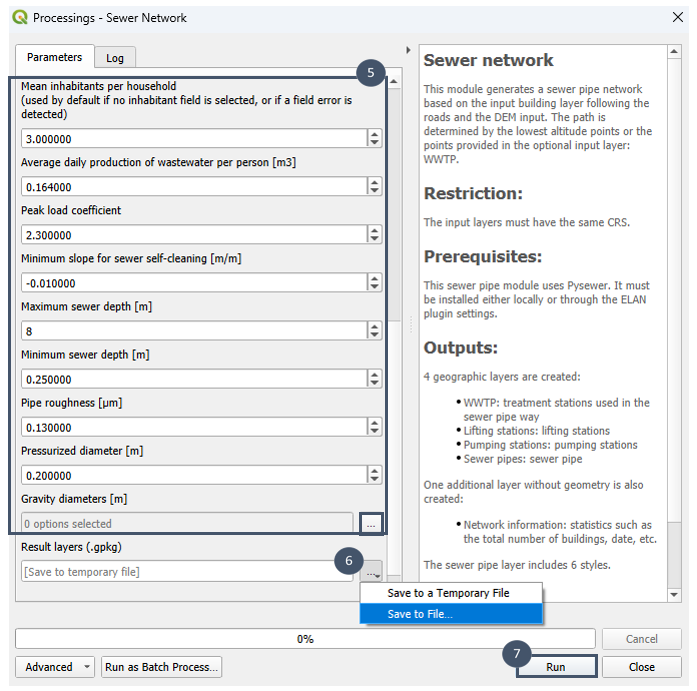
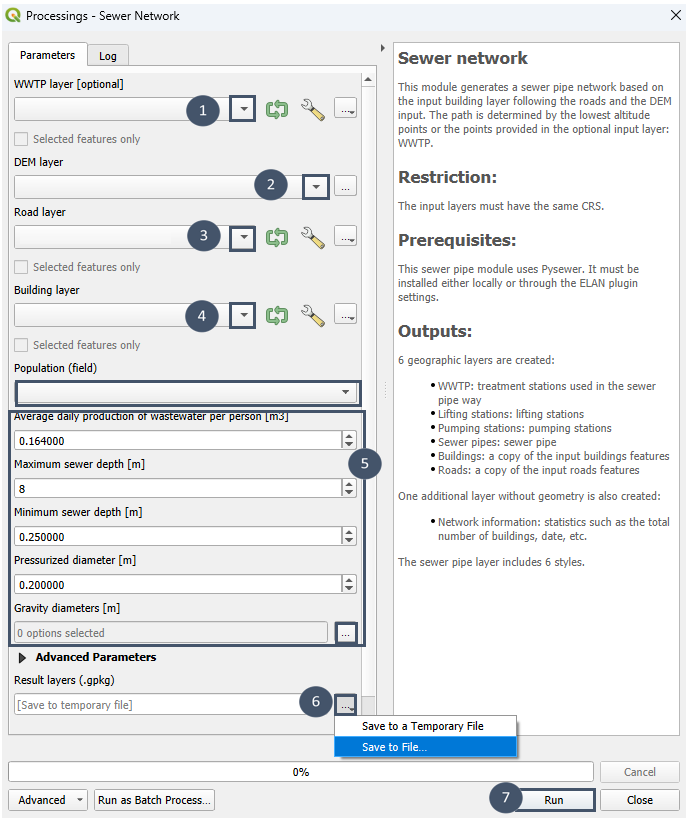
suite upgrade images and texts in preparation.rst and scenario_prb1.rst

Changed region(s): [[0.0, 0.0, 1.0, 1.0], [0.9767, 0.0, 1.0, 0.0304]]

diff --git a/docs/scenario_prb1.rst b/docs/scenario_prb1.rst
@@ -66,13 +66,10 @@ Utilisation du module
     Pour les exutoires, vous pouvez sélectionner au préalable celui ou ceux que vous souhaitez considérer parmi l'ensemble des possibilités envisagées puis cocher *Entités sélectionnées uniquement* dans le module.
     Cette option est également proposée pour les routes et les bâtiments à considérer.
 
-.. note::
-    Si vous avez eu recours au module ``Population`` pour préparer vos données géographiques, l'attribut à indiquer est *population*.
+.. image:: _static/entrees-reseau.png
+    :width: 688
 
-.. image:: _static/couches-reseau.png
-    :width: 680
-
-**3.** Faire coulisser l'ascenseur à l'aide de la souris (et non de la molette, cela risque de changer les valeurs des paramètres à votre insu) et **ajuster les différents paramètres** (encart 5) afin que le pré-dimensionnement du réseau soit le plus adapté à votre contexte : 
+**3.** **Ajuster les différents paramètres** (encart 5) afin que le pré-dimensionnement du réseau soit le plus adapté à votre contexte : 
 
 * ``volume moyen d'eaux usées produit par jour par personne`` : [m³].
 
@@ -99,9 +96,6 @@ Utilisation du module
     * ``rugosité canalisation`` : [μm], dépend du matériau utilisé pour les canalisations.
 
 **4.** Indiquer un emplacement et un nom pour la couche .gpkg en sortie (bulle 6) puis exécuter (bulle 7).
-
-.. image:: _static/entrees-reseau.png
-    :width: 697
 
 .. _sorties-reseau:
 
@@ -217,7 +211,7 @@ Visualisation
 **1.** Pour afficher un profil de canalisations dans un plan xz, commencer par ouvrir l'outil **Profil d'élévation** : *Vue* - *Profil d'élévation*.
 
 .. image:: _static/start-profil-elevation.png
-    :width: 556
+    :width: 700
 
 **2.** Dans la fenêtre *Profil d'élévation*, cocher les couches que vous souhaitez voir apparaître sur votre coupe. Par exemple : ``Stations de relevage``, ``Stations de pompage``, ``Profil de terrain``, ``Profil de canalisations`` et ``Canalisation 3D`` (bulle 1).
 
@@ -343,17 +337,17 @@ Pour plus d'informations sur la bonne prise en compte du climat tropical lors du
 
 **3.** Renseigner la couche STEU (bulle 2) et éventuellement la couche de surfaces disponibles (bulle 3).
 
-**4.** Assurez vous que les champs détectés pour les 10 attributs sont bien corrects : coordonnées GPS, niveaux de rejet et débit journalier (encart 4). 
+**4.** Assurez vous que les champs détectés pour les coordonnées GPS et le débit journalier sont bien corrects (encart 4). 
 
-**5.** Pour le nombre d'étages maximum, nous vous conseillons de laisser la valeur 3 qui est la valeur par défaut.
+.. note::
+    En dépliant *Paramètres avancés*, vous pouvez également vous assurer que les concentrations d'entrée et les niveaux de rejet pour les différents polluants ont bien été auto-détectés.
+
+**5.** Pour le nombre d'étages maximum, nous vous conseillons de laisser la valeur 3 qui est la valeur par défaut (encart 4).
 
 **6.** Choisir un emplacement et un nom pour le fichier de sortie (bulle 5) avant d'exécuter (bulle 6).
 
 .. image:: _static/use-procedes.png
-    :width: 571
-
-.. image:: _static/use-procedes2.png
-    :width: 568
+    :width: 693
 
 .. _sortie-procedes:
 

diff --git a/docs/preparation.rst b/docs/preparation.rst
@@ -25,9 +25,11 @@ Si vous disposez de ces 4 couches, vous pouvez vous rendre directement à la pag
 Sinon, poursuivez ici pour quelques astuces et explications sur l'obtention et la préparation des données géographiques requises.
 
 **Pour la couche** ``STEU``, le plus simple est de ``Créer une nouvelle couche`` de type *point* et de l'éditer de sorte à indiquer tous les emplacements possibles comme exutoires (1 point = 1 exutoire possible).
-Voir :ref:`ici <set-exutoires>` pour un exemple.
 
 **Pour les autres couches** : 
+
+.. tip::
+    Définir le Système de Coordonnées de Référence (SCR) du projet à partir de la couche de MNT et créer vos couches vecteurs dans ce système.
 
 En contexte français (Hexagone et Outre-Mer)
 ^^^^^^^^^^^^^^^^^^^^^^^^^^^^^^^^^^^^^^^^^^^^
